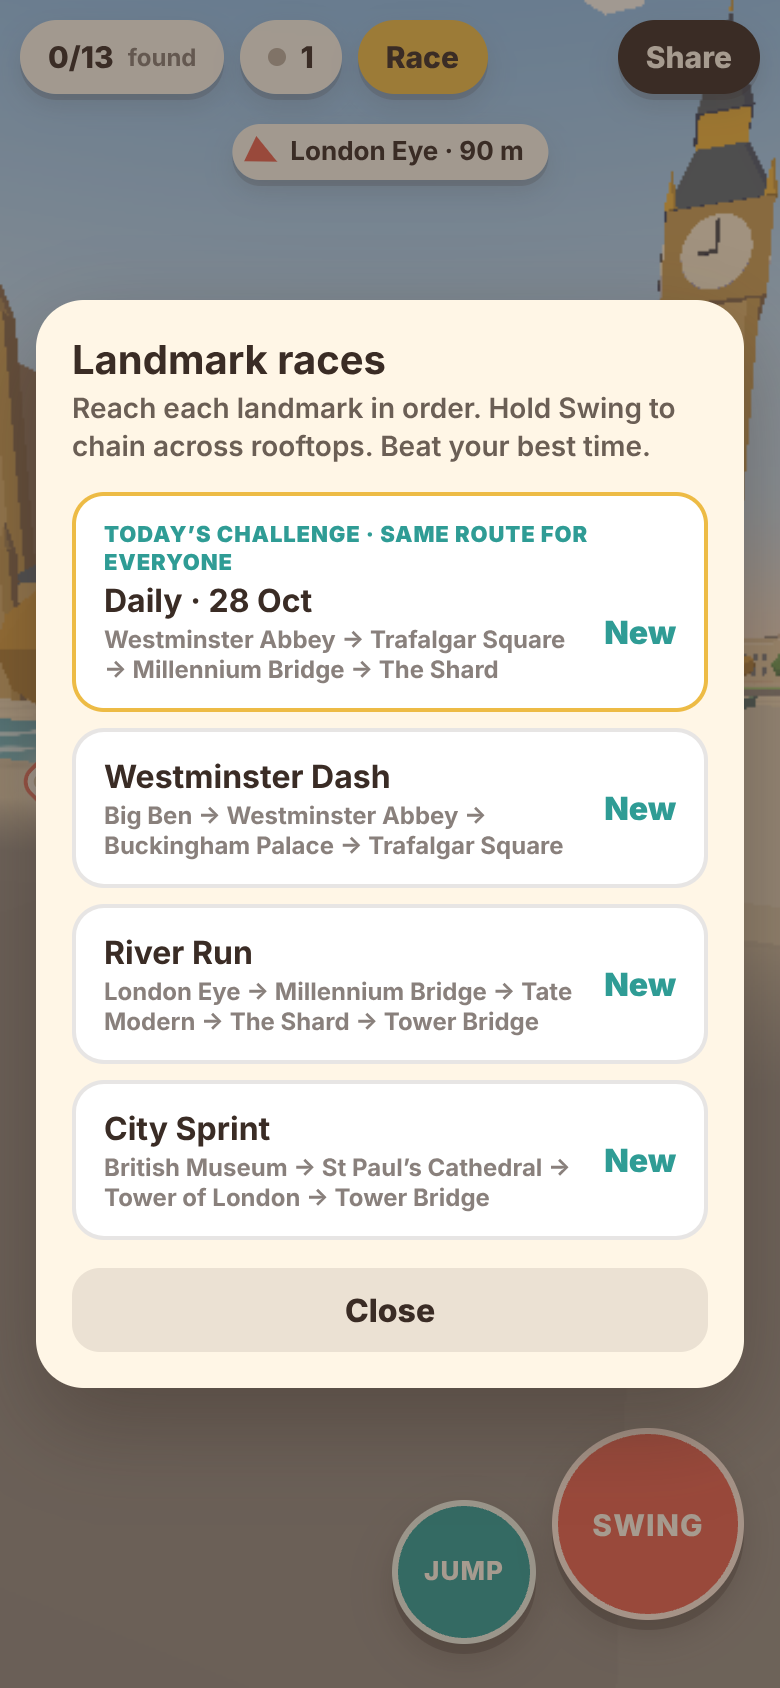
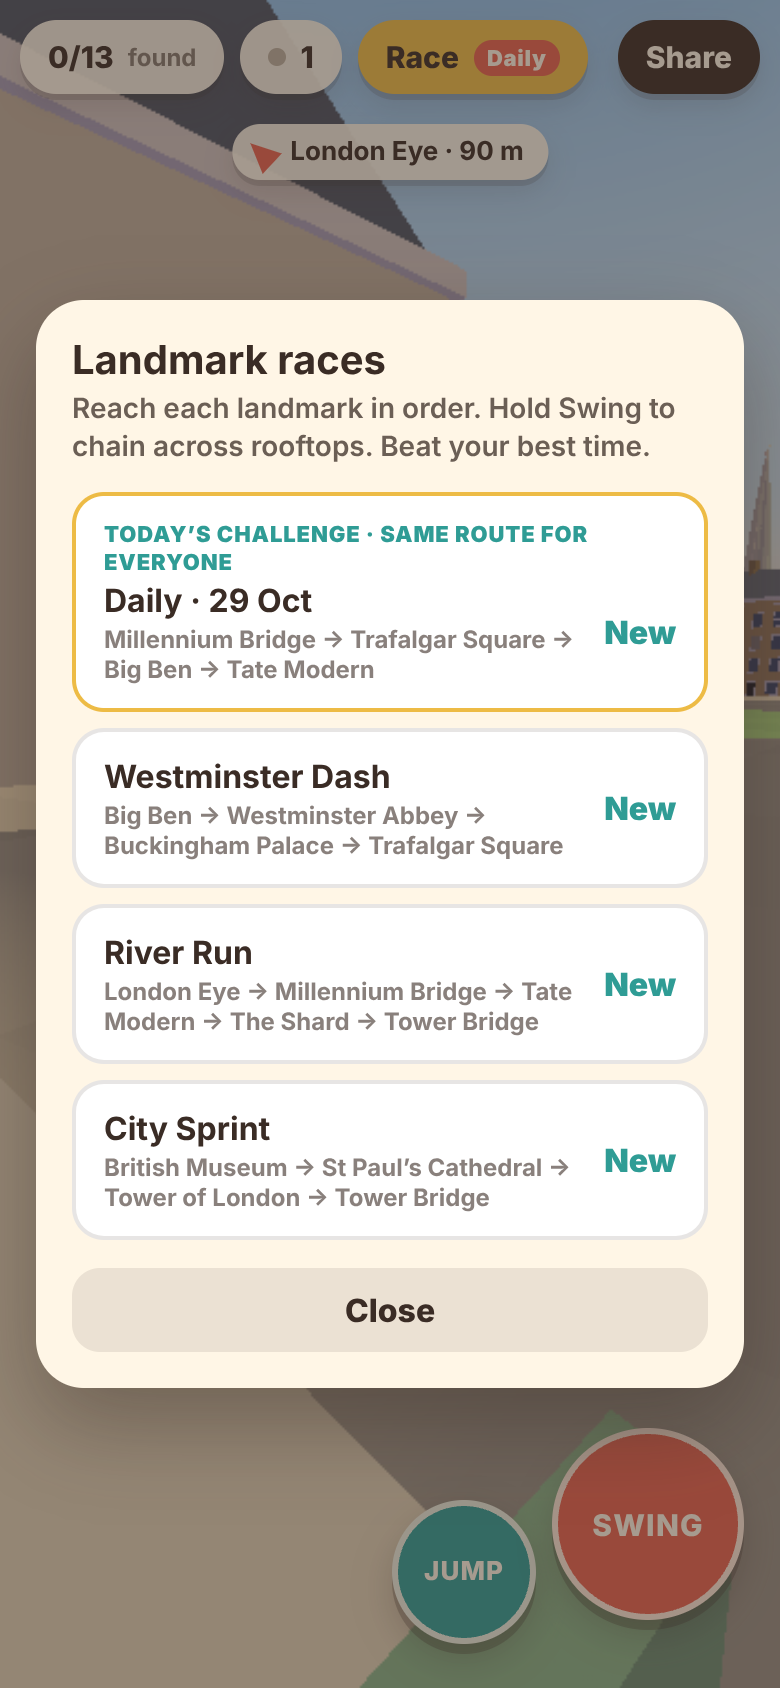
Daily challenge: Share today's time, Daily badge on the Race button
Claude-Session: https://claude.ai/code/session_01Fz3Rh3cCp2utAos6aN9HtK

diff --git a/e2e/game.spec.ts b/e2e/game.spec.ts
@@ -7,7 +7,7 @@ const url = (room: string) => `/?room=${room}&relay=${encodeURIComponent(RELAY)}
 
 interface PlayerState { x: number; y: number; z: number; anim: number; roped: boolean; grounded: boolean; swings: number }
 interface PeerState { id: string; name: string; seen: boolean; x: number; y: number; z: number }
-type Debug = { ready: boolean; room: string; player: PlayerState; peers: PeerState[]; race: { state: string; time: number; next: number; route: string | null }; teleport(x: number, y: number, z: number): void };
+type Debug = { ready: boolean; room: string; player: PlayerState; peers: PeerState[]; race: { state: string; time: number; next: number; route: string | null; stops: [number, number][] }; teleport(x: number, y: number, z: number): void };
 declare global {
   interface Window { __citywalk: Debug }
 }
@@ -212,6 +212,7 @@ test('race: pick a route, count down, take every checkpoint, finish and keep a p
   }
   await expect(page.locator('#race-done')).toBeVisible();
   await expect(page.locator('#done-kicker')).toContainText('new personal best');
+  await expect(page.locator('#done-share')).toBeHidden(); // sharing is for the daily only
   await page.screenshot({ path: 'screenshots/race-finish.png' });
   const best = await page.evaluate(() => localStorage.getItem('citywalk.best.westminster'));
   expect(Number(best)).toBeGreaterThan(0);
@@ -240,9 +241,35 @@ test('daily challenge: listed first, starts a 4-stop route for today', async ({ 
   expect((await page.evaluate(() => window.__citywalk.race)).route).toBe(`daily-${today}`);
   await expect(page.locator('#race-next')).toContainText('1/4');
   await page.locator('#race-quit').tap();
+  await expect(page.locator('#daily-badge')).toBeVisible(); // no daily time yet
   await page.locator('#race-btn').tap();
   await page.screenshot({ path: 'screenshots/daily-challenge.png' });
-  await page.locator('#race-close').tap();
+
+  // finish today's route: a "Share today's time" button appears and shares plain text
+  await page.locator('#routes li').first().locator('button').tap();
+  await expect.poll(async () => (await page.evaluate(() => window.__citywalk.race)).state, { timeout: 10_000 }).toBe('running');
+  const stops = (await page.evaluate(() => window.__citywalk.race)).stops;
+  for (const [x, z] of stops) {
+    await page.evaluate(([x, z]) => window.__citywalk.teleport(x, 0.5, z), [x, z]);
+    await page.waitForTimeout(400);
+  }
+  await expect(page.locator('#race-done')).toBeVisible();
+  await expect(page.locator('#done-share')).toBeVisible();
+  await page.evaluate(() => {
+    const w = window as unknown as { __shared: string[] };
+    w.__shared = [];
+    const capture = async (d: { text?: string }) => void w.__shared.push(d.text ?? '');
+    Object.defineProperty(navigator, 'share', { value: capture, configurable: true });
+    Object.defineProperty(navigator, 'clipboard', { value: { writeText: (t: string) => capture({ text: t }) }, configurable: true });
+  });
+  await page.locator('#done-share').tap();
+  const shared = await page.evaluate(() => (window as unknown as { __shared: string[] }).__shared);
+  expect(shared).toHaveLength(1);
+  expect(shared[0]).toMatch(/CityWalk Daily · \d+ \w+: I raced it in \d:\d\d\.\d/);
+  expect(shared[0]).toContain('?room=');
+  await page.screenshot({ path: 'screenshots/daily-share.png' });
+  await page.locator('#done-close').tap();
+  await expect(page.locator('#daily-badge')).toBeHidden(); // today's time is set
   expect(errors).toEqual([]);
 });
 

diff --git a/src/main.ts b/src/main.ts
@@ -8,7 +8,7 @@ import { Sfx } from './audio';
 import { UI, store } from './ui';
 import { buildWorld } from './world/city';
 import { LANDMARKS, SPAWN, type Landmark } from './world/data';
-import { ROUTES, Race, dailyRoute, formatTime, type Route } from './race';
+import { ROUTES, Race, dailyRoute, dailyShareText, formatTime, type Route } from './race';
 import { WATER_Y, groundHeight } from './world/river';
 import { parsePortal, portalRules } from './portal';
 
@@ -130,11 +130,18 @@ const race = new Race(
       sfx.discover();
       ui.raceHud(false);
       beacon.visible = false;
-      ui.raceFinished(race.route?.name ?? 'Race', formatTime(t), best !== null ? formatTime(best) : '', isNew);
+      const name = race.route?.name ?? 'Race';
+      const daily = race.route?.id.startsWith('daily-') ?? false;
+      // the link is compiled out of no-external-links builds (shareUrl() is '' there)
+      const share = daily ? dailyShareText(name, formatTime(t), shareUrl()) : '';
+      ui.raceFinished(name, formatTime(t), best !== null ? formatTime(best) : '', isNew, share);
+      refreshDailyBadge();
     },
   },
 );
 let lastRoute: Route = ROUTES[0];
+const refreshDailyBadge = () => ui.setDailyBadge(race.bestFor(dailyRoute().id) === null);
+refreshDailyBadge();
 function placePlayer(x: number, z: number, yaw: number): void {
   player.teleport(x, Math.max(groundHeight(x, z), world.colliders.topAt(x, z)) + 0.05, z);
   player.yaw = yaw + Math.PI;
@@ -152,6 +159,7 @@ function startRace(route: Route): void {
   if (ui.tutorialActive) ui.endTutorial();
 }
 const openRaces = () => {
+  refreshDailyBadge();
   // regenerated each time so a session left open past midnight UTC gets the new day's route
   const routes = [dailyRoute(), ...ROUTES];
   ui.showRoutes(routes, (id) => {
@@ -537,7 +545,8 @@ const debug = {
     return [...ui.found];
   },
   get race() {
-    return { state: race.state, time: race.time, next: race.next, route: race.route?.id ?? null };
+    const stops = (race.route?.stops ?? []).map((id) => LANDMARKS.find((l) => l.id === id)!).map((l) => [l.x, l.z] as [number, number]);
+    return { state: race.state, time: race.time, next: race.next, route: race.route?.id ?? null, stops };
   },
   /** dev tools: freeze time and step it manually (for capturing smooth footage) */
   pause: (on: boolean) => {

diff --git a/src/ui.ts b/src/ui.ts
@@ -56,6 +56,7 @@ export class UI {
   private tutTime = 0;
   private tutBase: TutorialState | null = null;
   private muted = false;
+  private doneShare = '';
   touch = matchMedia('(pointer: coarse)').matches || 'ontouchstart' in window;
   onRespawn: (() => void) | null = null;
 
@@ -70,6 +71,7 @@ export class UI {
     this.renderProgress();
 
     $('share').addEventListener('click', () => void this.share());
+    $('done-share').addEventListener('click', () => void this.shareDaily());
     $('progress').addEventListener('click', () => this.openPanel());
     $('close').addEventListener('click', () => this.closePanel());
     $('panel').addEventListener('click', (e) => {
@@ -252,12 +254,39 @@ export class UI {
     if (n === 0) window.setTimeout(() => (c.hidden = true), 800);
   }
 
-  raceFinished(route: string, time: string, best: string, isNew: boolean): void {
+  /** `shareText` (daily races only) shows a "Share today's time" button that copies it. */
+  raceFinished(route: string, time: string, best: string, isNew: boolean, shareText = ''): void {
+    this.doneShare = shareText;
+    $('done-share').hidden = !shareText;
     $('card').classList.remove('on');
     $('done-kicker').textContent = isNew ? `${route} · new personal best` : route;
     $('done-time').textContent = time;
     $('done-best').textContent = isNew ? 'Best time saved on this device.' : `Your best: ${best}`;
     $('race-done').hidden = false;
+  }
+
+  /** "Daily" badge on the Race button while today's challenge has no time on this device. */
+  setDailyBadge(on: boolean): void {
+    $('daily-badge').hidden = !on;
+  }
+
+  private async shareDaily(): Promise<void> {
+    const text = this.doneShare;
+    if (!text) return;
+    try {
+      if (navigator.share && this.touch) {
+        await navigator.share({ text });
+        return;
+      }
+    } catch (e) {
+      if ((e as Error).name === 'AbortError') return;
+    }
+    try {
+      await navigator.clipboard.writeText(text);
+      this.toast('Time copied — paste it to a friend');
+    } catch {
+      window.prompt('Copy your time:', text);
+    }
   }
 
   hideFinished(): void {

diff --git a/index.html b/index.html
@@ -205,6 +205,10 @@
       .sheet.done .kicker { font-size: 12px; font-weight: 800; letter-spacing: 0.14em; text-transform: uppercase; color: var(--coral); }
       #done-time { font-size: 52px; font-weight: 900; font-variant-numeric: tabular-nums; margin: 4px 0; }
       #done-best { margin: 0; font-weight: 700; opacity: 0.75; }
+      #done-share { margin-top: 12px; width: 100%; padding: 11px 10px; border-radius: 14px; font-weight: 800; background: var(--gold); }
+      #done-share[hidden] { display: none; }
+      #daily-badge { background: var(--coral); color: var(--cream); border-radius: 999px; padding: 2px 7px; font-size: 11px; font-weight: 900; letter-spacing: 0.03em; }
+      #daily-badge[hidden] { display: none; }
       #keys {
         position: fixed; left: calc(12px + var(--sal)); bottom: calc(12px + var(--sab)); background: var(--paper); border-radius: 12px; padding: 8px 12px;
         font-weight: 700; font-size: 13px; pointer-events: none; opacity: 0.9;
@@ -230,7 +234,7 @@
     <div id="top">
       <button class="chip" id="progress" aria-label="Landmarks found"><span id="count">0/13</span> <small>found</small></button>
       <div class="chip" id="players" title="Players in this room"><span class="dot"></span><span id="pcount">1</span></div>
-      <button class="chip" id="race-btn">Race</button>
+      <button class="chip" id="race-btn">Race<span id="daily-badge" hidden>Daily</span></button>
       <button class="chip" id="share">Share</button>
     </div>
     <div id="race-hud" hidden>
@@ -288,6 +292,7 @@
         <div class="kicker" id="done-kicker"></div>
         <div id="done-time"></div>
         <p id="done-best"></p>
+        <button id="done-share" hidden>Share today’s time</button>
         <div class="row"><button class="primary" id="done-again">Race again</button><button id="done-routes">Other races</button><button id="done-close">Free roam</button></div>
       </div>
     </div>

diff --git a/tests/race.test.ts b/tests/race.test.ts
@@ -111,3 +111,15 @@ describe('landmark race', () => {
     expect(race.bestFor(dailyRoute('2026-10-28').id)).toBeNull();
   });
 });
+
+describe('daily share text', () => {
+  it('names the day and time, and only adds a link when given one', async () => {
+    const { dailyShareText } = await import('../src/race');
+    const route = dailyRoute('2026-10-29');
+    const plain = dailyShareText(route.name, '1:23.4');
+    expect(plain).toContain('Daily · 29 Oct');
+    expect(plain).toContain('1:23.4');
+    expect(plain).not.toMatch(/https?:|\?room=/);
+    expect(dailyShareText(route.name, '1:23.4', 'https://example.test/')).toMatch(/ https:\/\/example\.test\/$/);
+  });
+});

diff --git a/src/race.ts b/src/race.ts
@@ -158,3 +158,12 @@ export function dailyRoute(key: string = dayKey()): Route {
   const fallback = ROUTES[Math.floor(rnd() * ROUTES.length)];
   return { ...fallback, id: `daily-${key}`, name };
 }
+
+/**
+ * Text for "Share today's time". Plain text only; `url` is omitted in builds that may not
+ * link to other sites, so the message still makes sense on its own.
+ */
+export function dailyShareText(routeName: string, time: string, url = ''): string {
+  const text = `CityWalk ${routeName}: I raced it in ${time}. Same route for everyone today. Can you beat it?`;
+  return url ? `${text} ${url}` : text;
+}

diff --git a/DAILY_PROGRESS.md b/DAILY_PROGRESS.md
@@ -2,6 +2,28 @@
 
 Verified work only. Newest first.
 
+## 2026-10-29
+
+**Implemented**
+- "Share today's time": finishing the daily race shows a button that shares (phone share
+  sheet) or copies a plain-text line, e.g. "CityWalk Daily · 29 Oct: I raced it in 1:23.4.
+  Same route for everyone today. Can you beat it?" plus the game link. The CrazyGames build
+  shares the text without any link. Fixed routes do not show the button.
+- First screen: the Race button carries a "Daily" badge until today's challenge has a time
+  on this device, so returning players see there is a new route.
+
+**Verified**
+- Build: 0 TS errors. Unit: 46 passed (new: share text names day and time, link only when
+  given). Browser: 6 passed (daily test now finishes the daily, checks the badge appears
+  then clears, the button shares the expected text; fixed race shows no share button).
+- CrazyGames package rebuilt: scanner clean, no external links.
+- Top bar with the badge checked in a 390 px-wide phone screenshot; not checked on narrower
+  phones or real devices.
+
+**Money earned:** £0 (not yet published on a paying channel).
+
+**Next task:** owner playtest fixes if any; otherwise ghost of your best race run.
+
 ## 2026-10-28
 
 **Implemented**

diff --git a/ROADMAP.md b/ROADMAP.md
@@ -8,12 +8,10 @@ Ordered by impact on getting real players and the first revenue.
 2. **itch.io launch** (awaiting approval — `DECISIONS.md`).
 3. **CrazyGames Basic Launch** (awaiting approval — `DECISIONS.md`). The no-external-links
    build is done (`npm run package:crazygames`).
-4. **Daily challenge polish:** "Share today's time" button (copy text, no backend); show the
-   daily on the title/first screen so returning players see it.
+4. **Ghost of your best race run** to chase (most player-visible next step for races).
 
 ## Next
 
-- Ghost of your best race run to chase.
 - Multiplayer race: everyone in a room races the same route.
 - Measure real-phone frame rate (ask testers), tune quality presets.
 - Swing feel: anchor preview line, rope tension sound, landing roll animation.
